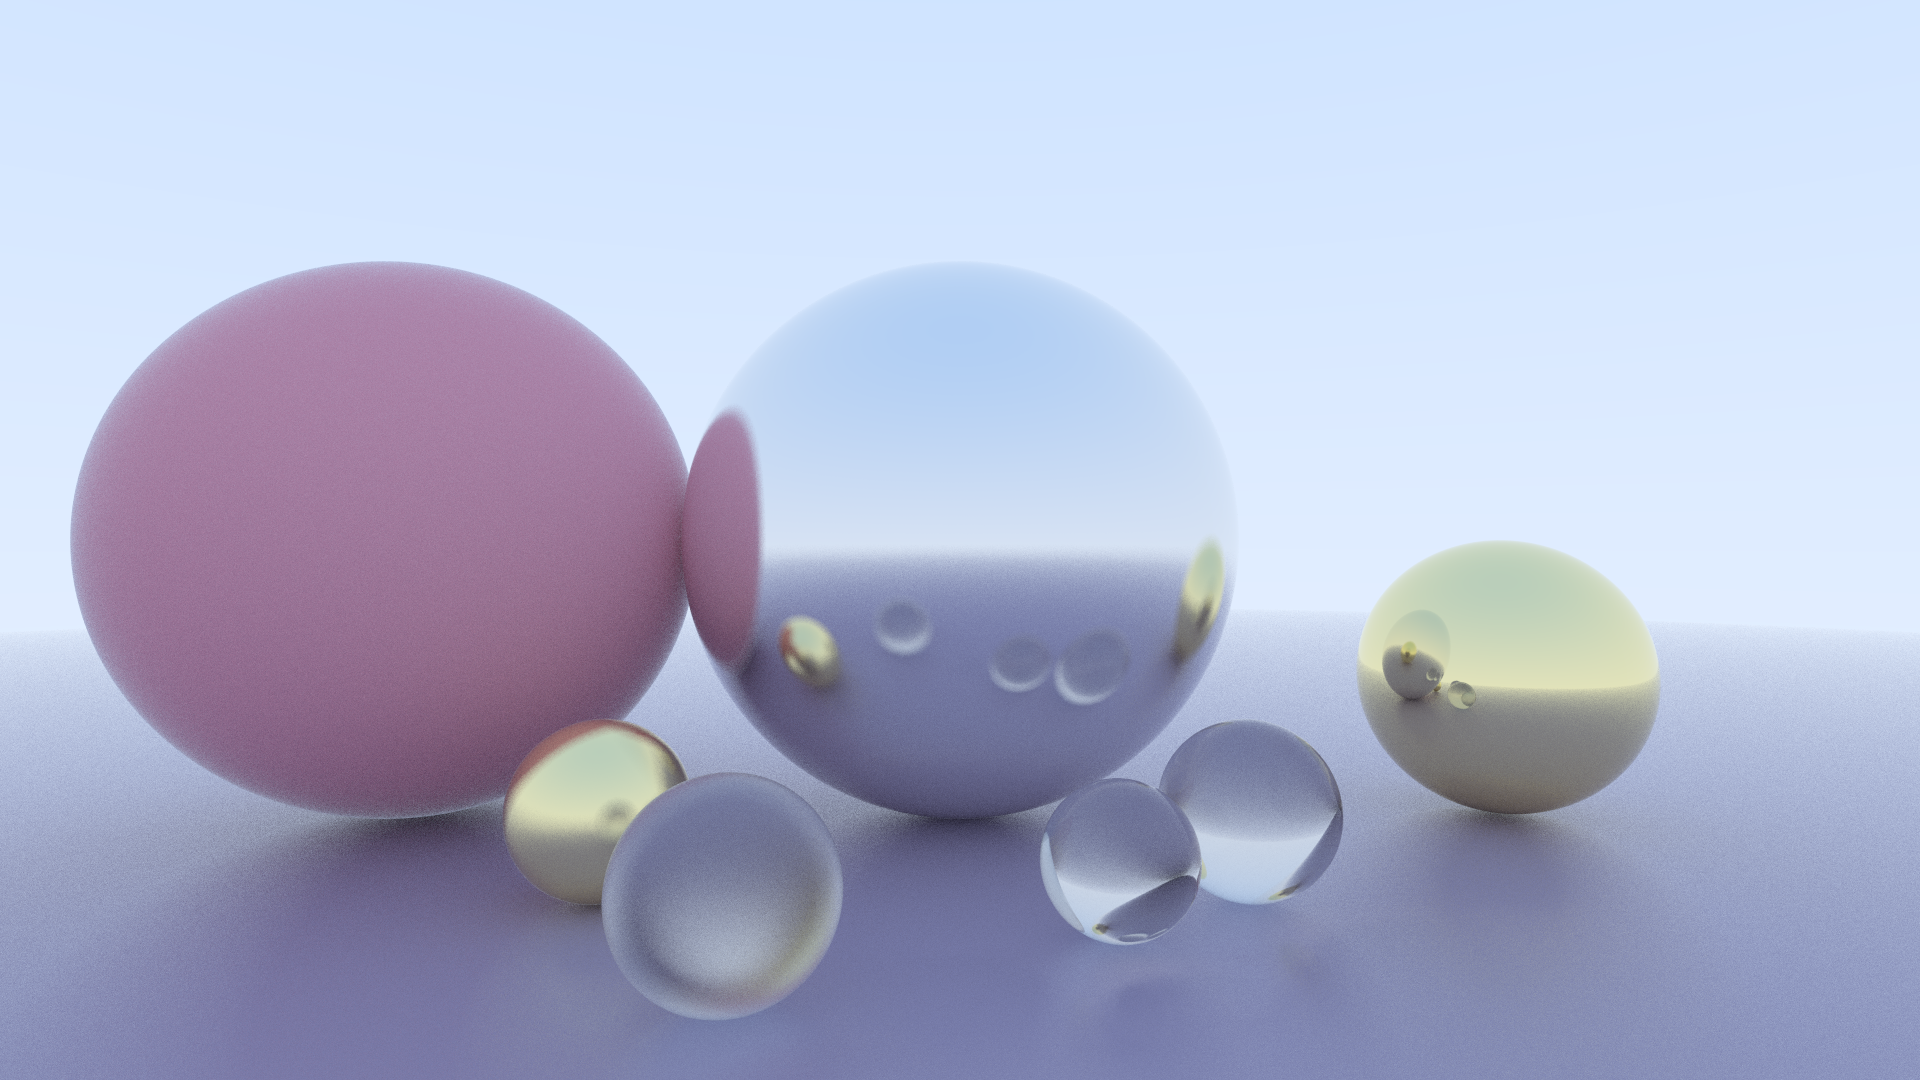
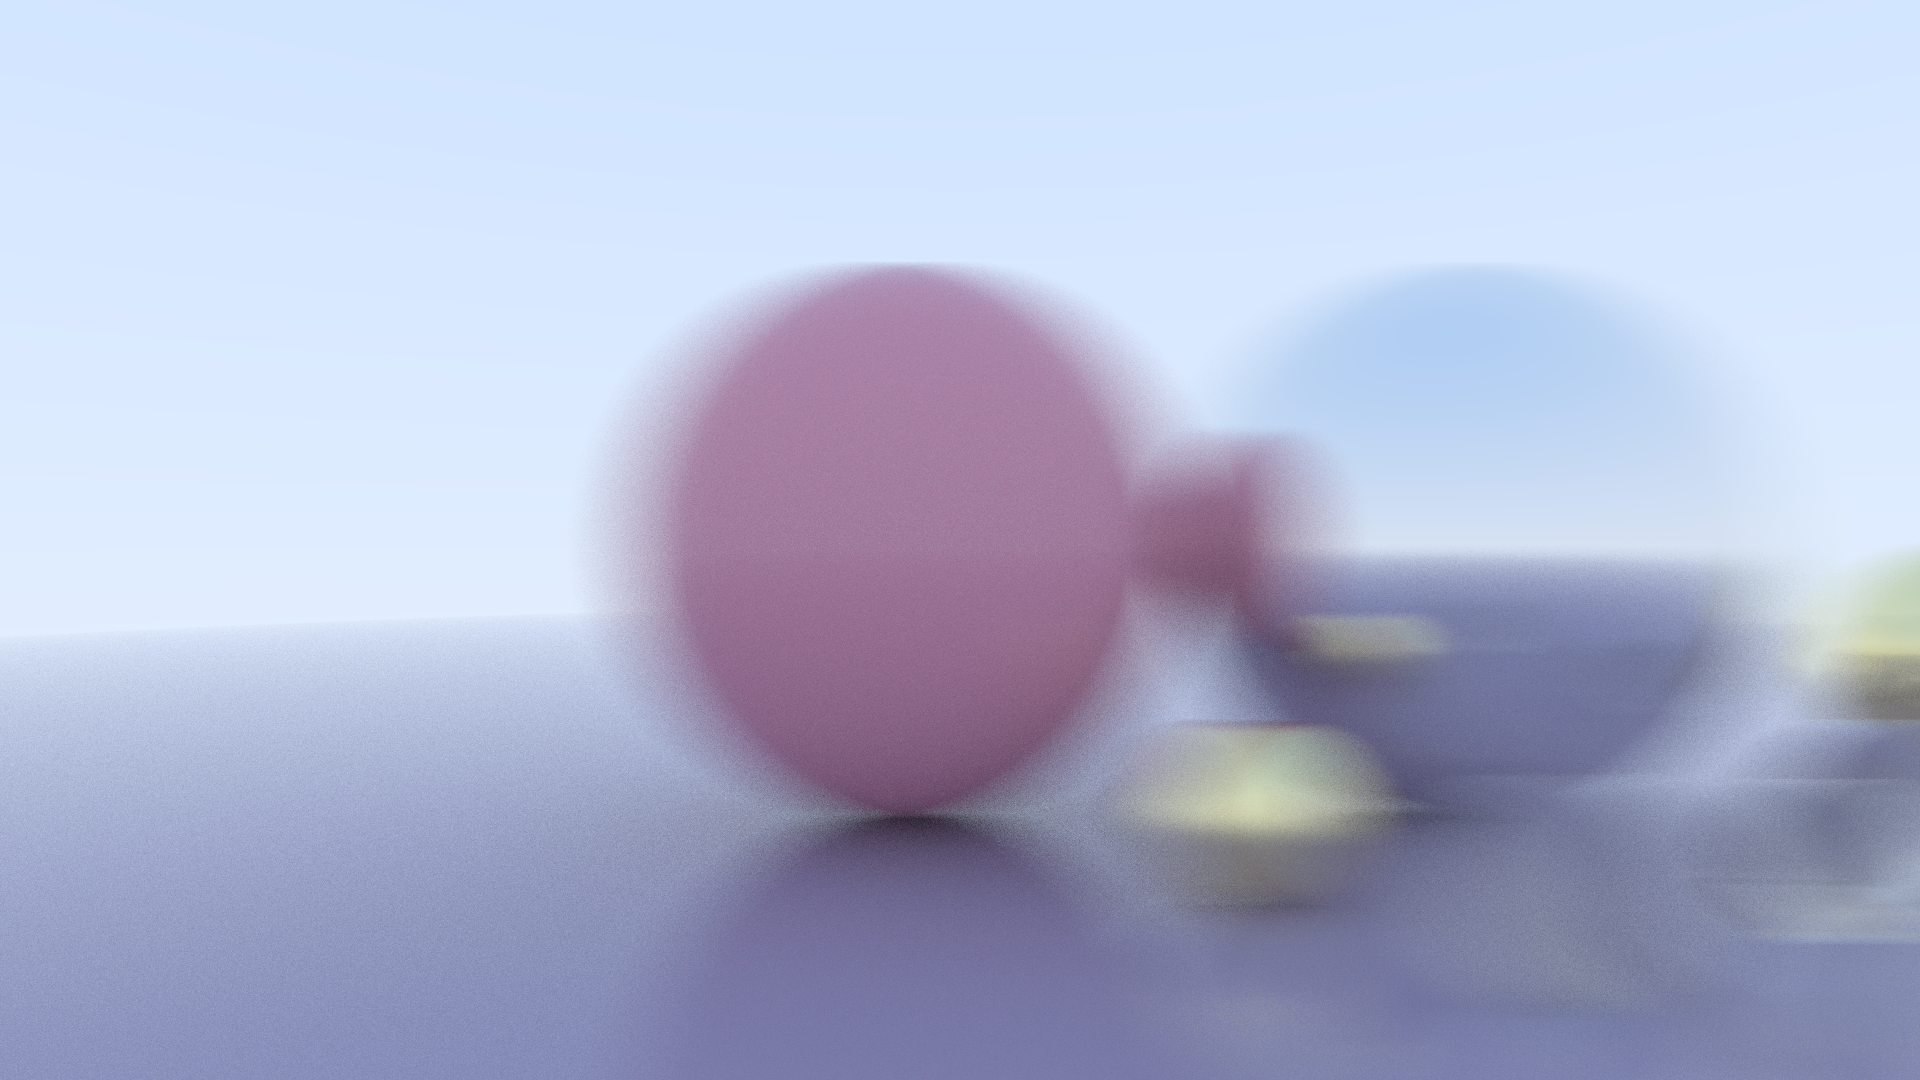
animation rendering

diff --git a/src/main.rs b/src/main.rs
@@ -109,8 +109,8 @@ fn main() {
     let mut img = image::RgbImage::new(DIMS.0, DIMS.1);
 
     let camera_position_sequence: Sequence<[f32; 3]> = Sequence::new(
-        vec![0.0, 1.0],
-        vec![[-1.0, 0.0, 1.0], [1.0, 0.0, 1.0]],
+        vec![0.0, 0.5, 1.5],
+        vec![[-1.0, 0.0, 1.0], [-1.0, 0.0, 1.0], [1.0, 0.0, 1.0]],
         minterpolate::InterpolationFunction::Linear,
         false,
     );
@@ -119,53 +119,62 @@ fn main() {
 
     let mut pixels = vec![Color::zero(); DIMS.0 as usize * DIMS.1 as usize];
 
-    let mutated = AtomicUsize::new(0);
-    let start = Instant::now();
+    let frame_range = 0..45;
+    let time_range = 0f32..1.5f32;
+    let shutter_time = (time_range.end - time_range.start) / (frame_range.end - frame_range.start) as f32;
 
-    pixels.par_iter_mut().enumerate().for_each(|(i, p)| {
-        let x = i % DIMS.0 as usize;
-        let y = (i - x) / DIMS.0 as usize;
-        let col = (0..SAMPLES)
-            .map(|_| {
-                let mut rng = thread_rng();
-                let uniform = Uniform::new(0.0, 1.0);
-                let (r1, r2) = (uniform.sample(&mut rng), uniform.sample(&mut rng));
-                let uv = Vec2::new(
-                    (x as f32 + r1) / DIMS.0 as f32,
-                    (y as f32 + r2) / DIMS.1 as f32,
+    for frame in frame_range {
+        let mutated = AtomicUsize::new(0);
+        let start = Instant::now();
+
+        let frame_start = time_range.start + frame as f32 * shutter_time;
+        let frame_end = frame_start + shutter_time;
+
+        pixels.par_iter_mut().enumerate().for_each(|(i, p)| {
+            let x = i % DIMS.0 as usize;
+            let y = (i - x) / DIMS.0 as usize;
+            let col = (0..SAMPLES)
+                .map(|_| {
+                    let mut rng = thread_rng();
+                    let uniform = Uniform::new(0.0, 1.0);
+                    let (r1, r2) = (uniform.sample(&mut rng), uniform.sample(&mut rng));
+                    let uv = Vec2::new(
+                        (x as f32 + r1) / DIMS.0 as f32,
+                        (y as f32 + r2) / DIMS.1 as f32,
+                    );
+                    let ray = camera.clone().get_ray(uv, rng.gen_range(frame_start, frame_end));
+                    compute_color(ray, &mut rng, 0)
+                })
+                .fold(Color::zero(), |a, b| a + b);
+            let col = col / SAMPLES as f32;
+            *p = col;
+            if i % 100_000 == 0 {
+                let n = mutated.fetch_add(1, Ordering::Relaxed);
+                println!(
+                    "{}% finished...",
+                    (n as f32 / (DIMS.0 * DIMS.1) as f32 * 100.0 * 100_000.0).round() as u32
                 );
-                let ray = camera.clone().get_ray(uv, rng.gen_range(0.0f32, 0.1f32));
-                compute_color(ray, &mut rng, 0)
-            })
-            .fold(Color::zero(), |a, b| a + b);
-        let col = col / SAMPLES as f32;
-        *p = col;
-        if i % 100_000 == 0 {
-            let n = mutated.fetch_add(1, Ordering::Relaxed);
-            println!(
-                "{}% finished...",
-                (n as f32 / (DIMS.0 * DIMS.1) as f32 * 100.0 * 100_000.0).round() as u32
-            );
+            }
+        });
+
+        for (x, y, pixel) in img.enumerate_pixels_mut() {
+            let idx = x + (DIMS.1 - 1 - y) * DIMS.0;
+            *pixel = pixels[idx as usize].gamma_correct(2.2).into();
         }
-    });
 
-    for (x, y, pixel) in img.enumerate_pixels_mut() {
-        let idx = x + (DIMS.1 - 1 - y) * DIMS.0;
-        *pixel = pixels[idx as usize].gamma_correct(2.2).into();
+        let time = Instant::now() - start;
+        let time_secs = time.as_secs();
+        let time_millis = time.subsec_millis();
+
+        println!(
+            "Done in {} seconds.",
+            time_secs as f32 + time_millis as f32 / 1000.0
+        );
+        let args: Vec<String> = std::env::args().collect();
+        let default = String::from(format!("frame{}.png", frame));
+        let filename = args.get(1).unwrap_or(&default);
+        println!("Saving to {}", filename);
+
+        img.save(filename).unwrap();
     }
-
-    let time = Instant::now() - start;
-    let time_secs = time.as_secs();
-    let time_millis = time.subsec_millis();
-
-    println!(
-        "Done in {} seconds.",
-        time_secs as f32 + time_millis as f32 / 1000.0
-    );
-    let args: Vec<String> = std::env::args().collect();
-    let default = String::from("render.png");
-    let filename = args.get(1).unwrap_or(&default);
-    println!("Saving to {}", filename);
-
-    img.save(filename).unwrap();
 }
